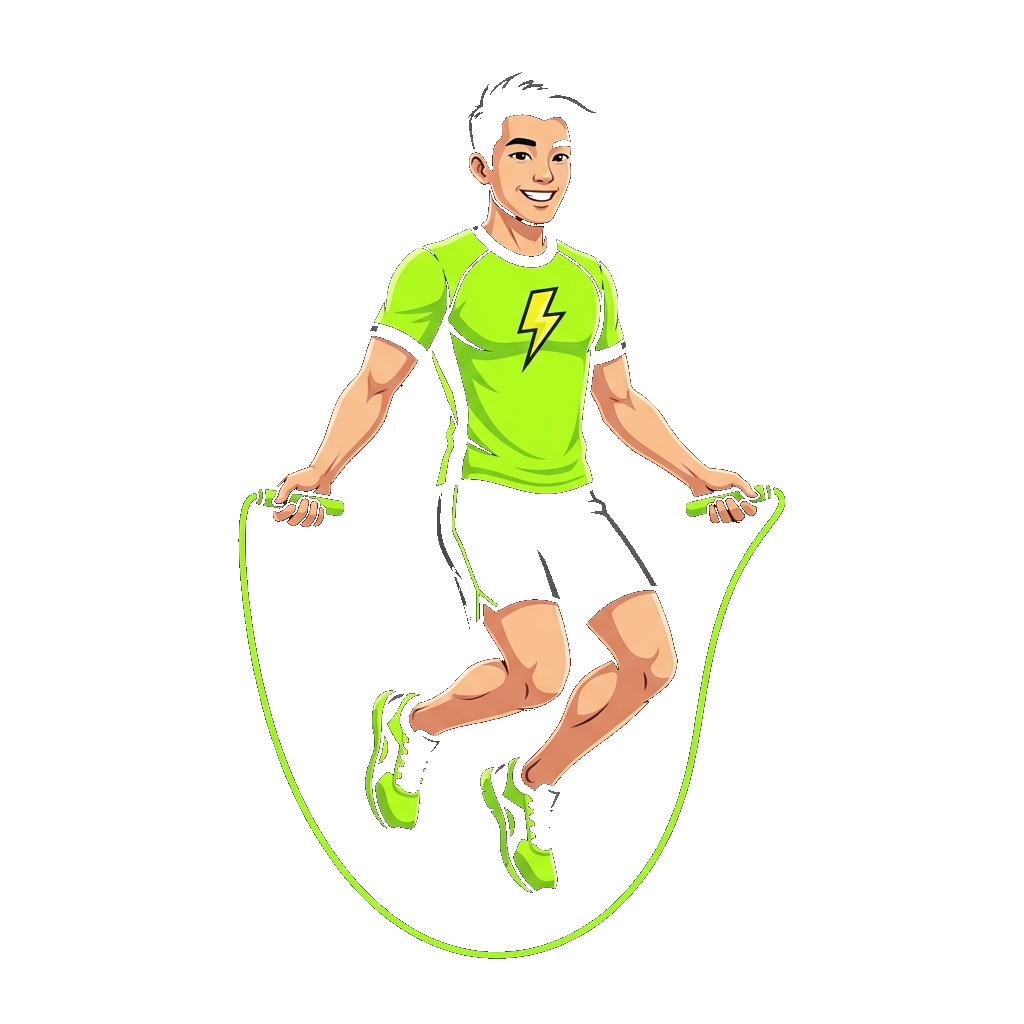
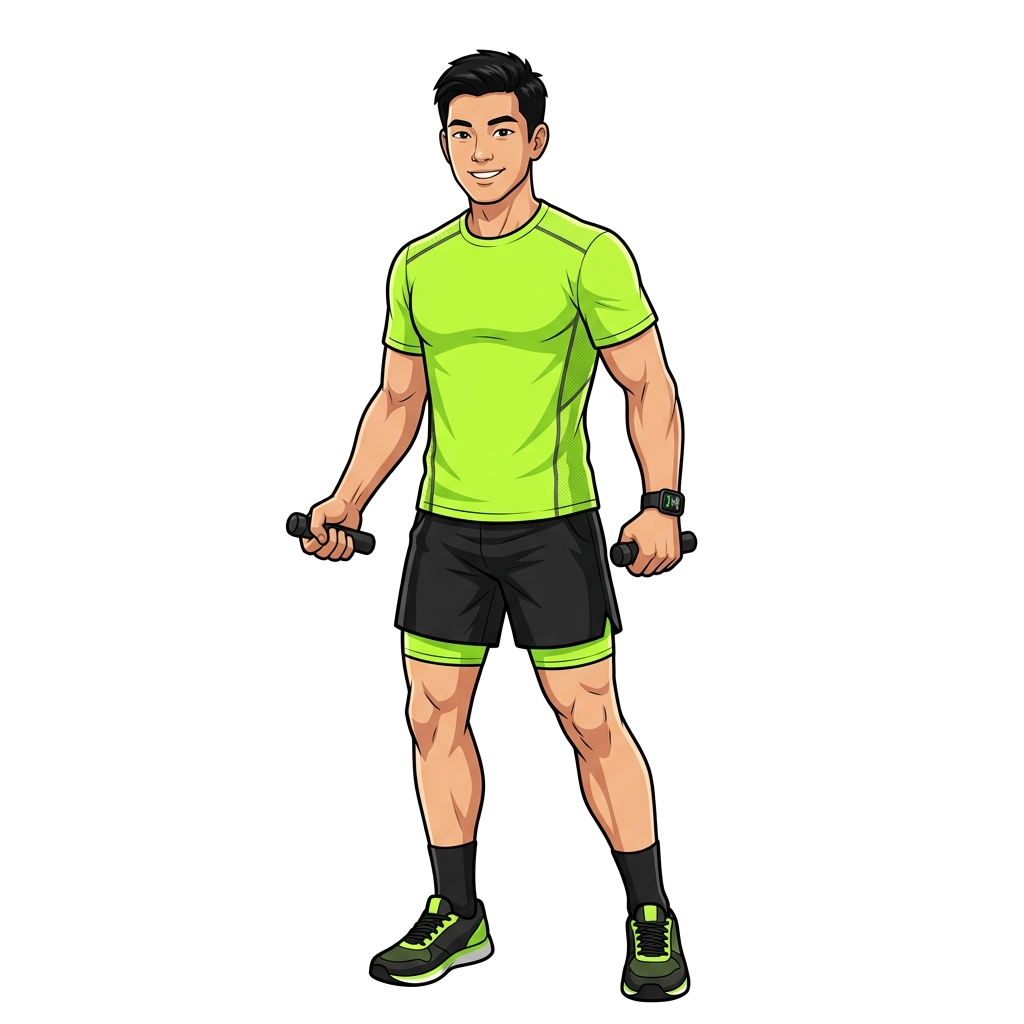
fix: Nâng cấp bối cảnh hành lang gạch đỏ chuẩn ảnh thực tế, phóng to nhân vật 100% sắc nét, bỏ dây tĩnh và tinh chỉnh nhịp nhảy sát sàn chuẩn kỹ thuật

Changed region(s): [[0.2188, 0.0312, 0.7812, 1.0], [0.25, 0.6562, 0.2812, 0.75], [0.2812, 0.75, 0.3125, 0.8125]]

diff --git a/game-rope.js b/game-rope.js
@@ -17,14 +17,14 @@ class RopeGame {
     this.highScore = parseInt(localStorage.getItem('thang_high_score') || '0', 10);
     this.playerName = localStorage.getItem('thang_player_name') || 'VĐV Hành Lang';
 
-    // Character physics & state
+    // Character physics & state (Realistic Jump Rope Hop: quick & low clearance)
     this.char = {
       x: 0,
       y: 0,
       baseY: 0,
       vy: 0,
-      jumpForce: -13.8,
-      gravity: 0.72,
+      jumpForce: -7.6, // Low, snappy realistic jump rope hop
+      gravity: 0.82,
       isGrounded: true,
       jumpHeight: 0,
       scaleX: 1,
@@ -36,8 +36,8 @@ class RopeGame {
     // Rope rotation mechanics
     this.rope = {
       angle: -Math.PI / 2, // Starts at the top
-      baseSpeed: 0.076,
-      speed: 0.076,
+      baseSpeed: 0.078,
+      speed: 0.078,
       passedBottom: false,
       isDangerZone: false,
       glowIntensity: 1
@@ -101,9 +101,9 @@ class RopeGame {
     this.width = width;
     this.height = height;
 
-    // Set character coordinates
+    // Set character coordinates (Prominent center position)
     this.char.x = this.width / 2;
-    this.char.baseY = this.height * 0.70;
+    this.char.baseY = this.height * 0.64;
     this.char.y = this.char.baseY;
   }
 
@@ -302,7 +302,8 @@ class RopeGame {
     const isAtBottom = Math.abs(this.rope.angle - hitAngle) < dangerRange;
 
     if (isAtBottom && !this.rope.passedBottom) {
-      const isCleared = this.char.jumpHeight >= 15;
+      // Fast, realistic jump clearance (7px off the floor)
+      const isCleared = this.char.jumpHeight >= 7;
 
       if (!isCleared) {
         this.gameOver();
@@ -383,23 +384,23 @@ class RopeGame {
 
   drawShadow() {
     const x = this.char.x;
-    const y = this.char.baseY + 54;
+    const y = this.char.baseY + 130;
     const jump = this.char.jumpHeight;
 
-    const scale = Math.max(0.35, 1 - jump / 140);
-    const alpha = Math.max(0.18, 0.65 - jump / 180);
+    const scale = Math.max(0.4, 1 - jump / 45);
+    const alpha = Math.max(0.2, 0.7 - jump / 35);
 
     this.ctx.save();
     this.ctx.beginPath();
-    this.ctx.ellipse(x, y, 52 * scale, 15 * scale, 0, 0, Math.PI * 2);
+    this.ctx.ellipse(x, y, 68 * scale, 18 * scale, 0, 0, Math.PI * 2);
     this.ctx.fillStyle = `rgba(0, 0, 0, ${alpha})`;
     this.ctx.fill();
 
-    // Soft colored floor reflection of lime shirt & shoes
-    if (jump < 40) {
+    // Soft warm reflection on terracotta tiles
+    if (jump < 20) {
       this.ctx.beginPath();
-      this.ctx.ellipse(x, y + 2, 35 * scale, 8 * scale, 0, 0, Math.PI * 2);
-      this.ctx.fillStyle = `rgba(57, 255, 20, ${0.15 * (1 - jump / 40)})`;
+      this.ctx.ellipse(x, y + 2, 45 * scale, 10 * scale, 0, 0, Math.PI * 2);
+      this.ctx.fillStyle = `rgba(57, 255, 20, ${0.18 * (1 - jump / 20)})`;
       this.ctx.fill();
     }
     this.ctx.restore();
@@ -413,19 +414,16 @@ class RopeGame {
     this.ctx.translate(cx, cy);
     this.ctx.scale(this.char.scaleX, this.char.scaleY);
 
-    // Desired sprite size
-    const spriteSize = 210;
+    // Prominent, large, sharp sprite (100% opaque)
+    const spriteSize = 295;
 
     if (this.state === 'GAMEOVER') {
-      // Draw Tripped / Game Over sprite
       if (this.tripSprite.complete && this.tripSprite.naturalWidth > 0) {
-        this.ctx.drawImage(this.tripSprite, -spriteSize / 2, -spriteSize / 2 - 15, spriteSize, spriteSize);
+        this.ctx.drawImage(this.tripSprite, -spriteSize / 2, -spriteSize / 2, spriteSize, spriteSize);
       }
     } else {
-      // Draw Jumping / Athletic sprite
       if (this.jumpSprite.complete && this.jumpSprite.naturalWidth > 0) {
-        // Draw crisp character
-        this.ctx.drawImage(this.jumpSprite, -spriteSize / 2, -spriteSize / 2 - 15, spriteSize, spriteSize);
+        this.ctx.drawImage(this.jumpSprite, -spriteSize / 2, -spriteSize / 2, spriteSize, spriteSize);
       }
     }
 
@@ -434,34 +432,34 @@ class RopeGame {
 
   drawRope() {
     const cx = this.char.x;
-    const cy = this.char.baseY + 10;
+    const cy = this.char.baseY + 8;
     const angle = this.rope.angle;
 
     // 3D Ellipse Radii
-    const radiusY = 110;
-    const radiusX = 75;
+    const radiusY = 138;
+    const radiusX = 98;
 
-    const ropeY = cy - 25 + Math.sin(angle) * radiusY;
+    const ropeY = cy + Math.sin(angle) * radiusY;
     const ropeZ = Math.cos(angle);
 
-    // Handle anchor coordinates near Thắng's hands
-    const leftHandleX = cx - 38;
-    const leftHandleY = this.char.y - 12;
-    const rightHandleX = cx + 38;
-    const rightHandleY = this.char.y - 12;
+    // Handle anchor coordinates exactly at Thắng's hands
+    const leftHandleX = cx - 62;
+    const leftHandleY = this.char.y + 12;
+    const rightHandleX = cx + 62;
+    const rightHandleY = this.char.y + 12;
 
     this.ctx.save();
 
     const isFront = ropeZ >= 0;
-    const lineWidth = isFront ? 4.5 : 2.6;
-    const alpha = isFront ? 0.98 : 0.6;
+    const lineWidth = isFront ? 4.8 : 2.8;
+    const alpha = isFront ? 0.98 : 0.62;
 
     // Glowing Neon Lime speed rope
     this.ctx.strokeStyle = `rgba(57, 255, 20, ${alpha})`;
     this.ctx.lineWidth = lineWidth;
     this.ctx.lineCap = 'round';
     this.ctx.shadowColor = '#39ff14';
-    this.ctx.shadowBlur = isFront ? 14 : 4;
+    this.ctx.shadowBlur = isFront ? 16 : 4;
 
     this.ctx.beginPath();
     this.ctx.moveTo(leftHandleX, leftHandleY);
@@ -479,19 +477,19 @@ class RopeGame {
 
     // Inner bright core
     if (isFront) {
-      this.ctx.strokeStyle = 'rgba(255, 255, 255, 0.85)';
-      this.ctx.lineWidth = 1.6;
+      this.ctx.strokeStyle = 'rgba(255, 255, 255, 0.9)';
+      this.ctx.lineWidth = 1.8;
       this.ctx.shadowBlur = 0;
       this.ctx.stroke();
     }
 
     // Floor contact flash
-    if (Math.abs(angle - Math.PI / 2) < 0.22 && this.char.jumpHeight > 10) {
-      this.ctx.fillStyle = 'rgba(57, 255, 20, 0.55)';
+    if (Math.abs(angle - Math.PI / 2) < 0.22 && this.char.jumpHeight > 3) {
+      this.ctx.fillStyle = 'rgba(57, 255, 20, 0.6)';
       this.ctx.shadowColor = '#39ff14';
-      this.ctx.shadowBlur = 20;
+      this.ctx.shadowBlur = 22;
       this.ctx.beginPath();
-      this.ctx.ellipse(cx, cy + radiusY - 26, 36, 6, 0, 0, Math.PI * 2);
+      this.ctx.ellipse(cx, cy + radiusY - 6, 42, 8, 0, 0, Math.PI * 2);
       this.ctx.fill();
     }
 
